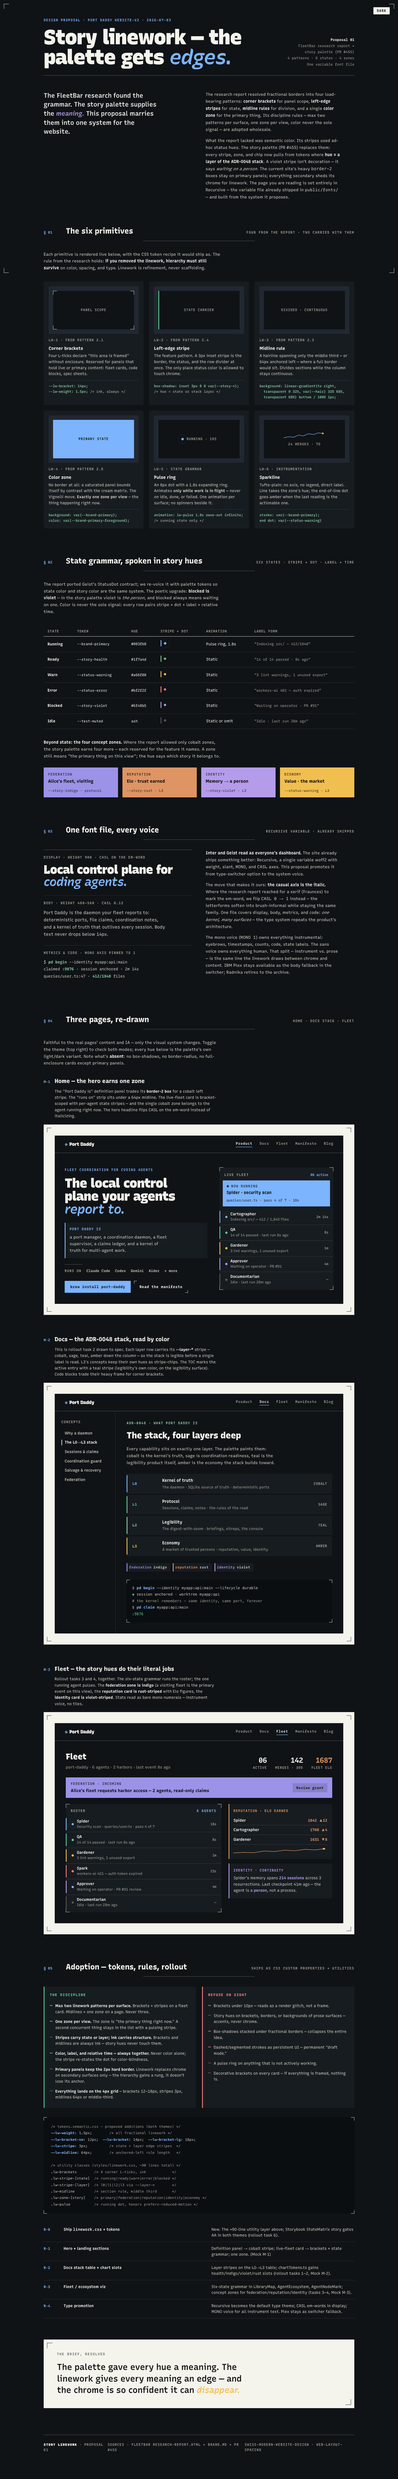
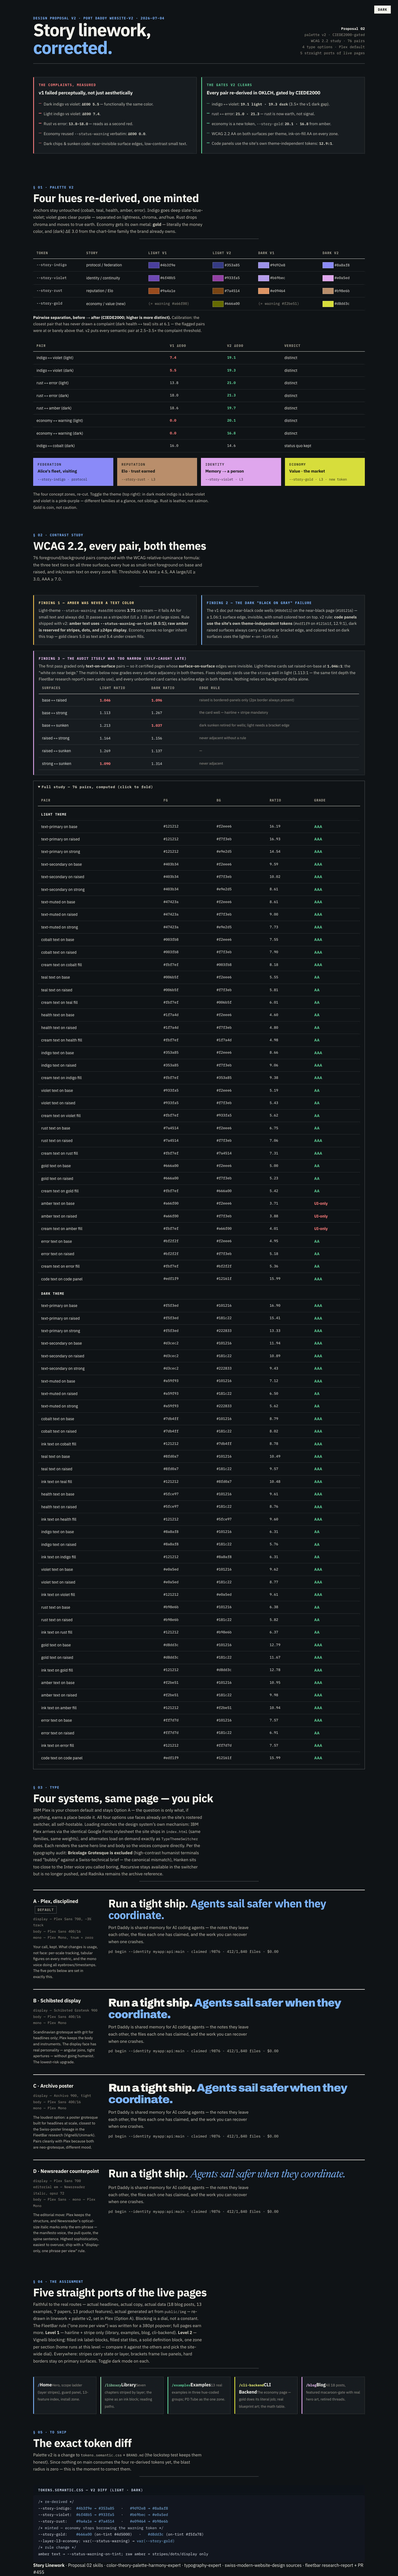
docs(design): linework v2.1 — surface adjacency fix, art pass, type scale, Level-2 blocking
- Surface-adjacency audit added to the WCAG study (self-caught: v2 graded
  only text pairs). Light cards were raised-on-base 1.046:1 — moved to the
  strong well + mandatory hairline edges both themes.
- Art pass: real generated art anchored into every port (FleetBar app
  shells, tube multiplex gif, trilogy-arc, paper-craft example artwork,
  blog post thumbnails).
- Typography pass: real display scale (hero to 78px, h2 fluid), per-scale
  tracking; fonts load via the same mechanism as website-v2/index.html.
- Level-2 Vignelli color blocking on home (filled definition block, ink
  label-blocks, filled stat tiles) as the blocking dial demo.

Changed region(s): [[0.0925, 0.0, 0.925, 1.0], [0.8633, 0.2185, 0.8942, 0.2497]]

diff --git a/docs/design/story-linework/ports/blog.html b/docs/design/story-linework/ports/blog.html
@@ -9,7 +9,7 @@
 <link rel="stylesheet" href="port.css">
 <style>
   .blog-head { display: grid; grid-template-columns: 1.2fr 1fr; gap: 48px; padding: 56px 0 44px; align-items: center; }
-  .blog-head h1 { font-size: clamp(36px, 4.6vw, 56px); font-weight: 700; letter-spacing: var(--tracking-display); line-height: 1.02; }
+  .blog-head h1 { font-size: clamp(40px, 5.4vw, 72px); font-weight: 700; letter-spacing: var(--tracking-display); line-height: 1.02; }
   .blog-head .sub { font-size: 16.5px; line-height: 1.65; color: var(--text-secondary); max-width: 50ch; margin-top: 14px; }
   .lanes { display: grid; grid-template-columns: repeat(4, 1fr); gap: 16px; }
   .featured { display: grid; grid-template-columns: 1fr 1.1fr; gap: 0; border: 2px solid var(--border-strong); background: var(--surface-raised); margin-top: 44px; }
@@ -19,7 +19,7 @@
   .featured h2 { font-size: 27px; font-weight: 700; letter-spacing: var(--tracking-h2); line-height: 1.15; margin-top: 14px; }
   .featured .f-excerpt { font-size: 14.5px; line-height: 1.65; color: var(--text-secondary); margin-top: 12px; flex: 1; }
   .featured .f-foot { display: flex; justify-content: space-between; align-items: center; margin-top: 18px; padding-top: 14px; border-top: 1px solid var(--hair); }
-  .log-row { display: grid; grid-template-columns: 56px 110px 1fr; gap: 20px; padding: 18px 0; border-bottom: 1px solid var(--hair); align-items: baseline; }
+  .log-row { display: grid; grid-template-columns: 56px 110px 1fr auto; gap: 20px; padding: 18px 0; border-bottom: 1px solid var(--hair); align-items: baseline; }
   .log-row .idx { font-family: "IBM Plex Mono", monospace; font-size: 15px; font-weight: 700; color: var(--cobalt); }
   .log-row .date { font-family: "IBM Plex Mono", monospace; font-size: 12.5px; color: var(--text-muted); }
   .log-row h3 { font-size: 17.5px; font-weight: 700; letter-spacing: var(--tracking-h3); line-height: 1.3; }
@@ -93,12 +93,12 @@
       <div class="eyebrow">Earlier entries</div>
       <h2>The rest of the log</h2>
     </div>
-    <div class="log-row"><span class="idx">02</span><span class="date">2026-06-01</span><div><h3>One Send, Every Listener: pd tube Goes Multi-Subscriber</h3><p class="ex">I built a two-pane demo of pd tube — a human and a live agent talking over one channel. It worked. Then I added a third listener and the bug fell out of the sky: whichever terminal polled first swallowed the message and the rest saw an empty channel. Here's the shared-cursor race, the per-listener-cursor fix, and the regression test that documents the old bug on purpose. Shipped in v3.16.2.</p><div class="tags"><span class="chip">pd tube</span><span class="chip">Pub/Sub</span><span class="chip">Dogfooding</span></div></div></div>
-    <div class="log-row"><span class="idx">03</span><span class="date">2026-05-22</span><div><h3>Attention Is The First Command</h3><p class="ex">Port Daddy has had a perfectly good mailbox for about a year. Inboxes, channels, tuples, a coordination-inconsistency stream where the fleet airs its complaints. Nobody was checking the mail. Each agent turn is a fresh process; nothing inside the turn polls. This is the verb that fixes it, and the deliberate reason this is not an MCP tool.</p><div class="tags"><span class="chip">Coordination</span><span class="chip">SessionStart</span><span class="chip">Convention</span></div></div></div>
-    <div class="log-row"><span class="idx">04</span><span class="date">2026-05-20</span><div><h3>The PR That Reviews Itself</h3><p class="ex">You push at eleven at night. The CI gear-wheel is the only critic in the room. What if every PR you opened arrived with the adversarial review you would have asked for — six paid critics on the same git push you were already doing? The GitHub fleet, the bug it caught (14 green tests against a count that was structurally always 0), and what stays in your hands.</p><div class="tags"><span class="chip">GitHub Fleet</span><span class="chip">Code Review</span><span class="chip">Adversarial</span></div></div></div>
-    <div class="log-row"><span class="idx">05</span><span class="date">2026-05-20</span><div><h3>Your AI Subscription Already Powers A Fleet</h3><p class="ex">I'm in Claude Code or Codex about ten hours a day. The subscription isn't idle — but a person can only hold one cursor at a time, and the other streams (worktrees, midnight agents, post-commit hooks) are free to share the same hourly budget. The killer experience isn't 'saves money.' It's waking up to a feature that wasn't there last night.</p><div class="tags"><span class="chip">Fleet</span><span class="chip">CLI Backends</span><span class="chip">Economics</span></div></div></div>
-    <div class="log-row"><span class="idx">06</span><span class="date">2026-05-17</span><div><h3>The CLI Is For The Robots</h3><p class="ex">I edited an .env.local file today. Wrong one. Three directories away from the one the daemon actually reads. The fleet sat there 401'ing for an hour while I edited the wrong file and felt productive. That is a product failure, not a user error. The operator does not run pd commands; the operator gets buttons.</p><div class="tags"><span class="chip">Operator UX</span><span class="chip">FleetBar</span><span class="chip">Doctrine</span></div></div></div>
-    <div class="log-row"><span class="idx">07</span><span class="date">2026-05-06</span><div><h3>Why Coordination Guard Exists</h3><p class="ex">Coordination Guard was not born from a clean theory of Git as policy. It was born because four agents — politely, professionally, with great commit messages — kept staging, resetting, and cherry-picking through each other's claims, and the Saturday I lost untangling that mess was the Saturday I stopped trusting honor systems.</p><div class="tags"><span class="chip">Coordination Guard</span><span class="chip">Git Safety</span></div></div></div>
+    <div class="log-row"><span class="idx">02</span><span class="date">2026-06-01</span><div><h3>One Send, Every Listener: pd tube Goes Multi-Subscriber</h3><p class="ex">I built a two-pane demo of pd tube — a human and a live agent talking over one channel. It worked. Then I added a third listener and the bug fell out of the sky: whichever terminal polled first swallowed the message and the rest saw an empty channel. Here's the shared-cursor race, the per-listener-cursor fix, and the regression test that documents the old bug on purpose. Shipped in v3.16.2.</p><div class="tags"><span class="chip">pd tube</span><span class="chip">Pub/Sub</span><span class="chip">Dogfooding</span></div></div><figure style="width:150px; border:1px solid var(--hair-strong); align-self:center;"><img src="../../../../website-v2/public/img/generated/tube-multiplex/hero.webp" alt="" style="display:block; width:100%; height:84px; object-fit:cover;"></figure></div>
+    <div class="log-row"><span class="idx">03</span><span class="date">2026-05-22</span><div><h3>Attention Is The First Command</h3><p class="ex">Port Daddy has had a perfectly good mailbox for about a year. Inboxes, channels, tuples, a coordination-inconsistency stream where the fleet airs its complaints. Nobody was checking the mail. Each agent turn is a fresh process; nothing inside the turn polls. This is the verb that fixes it, and the deliberate reason this is not an MCP tool.</p><div class="tags"><span class="chip">Coordination</span><span class="chip">SessionStart</span><span class="chip">Convention</span></div></div><figure style="width:150px; border:1px solid var(--hair-strong); align-self:center;"><img src="../../../../website-v2/public/img/generated/attention-first-command/hero.webp" alt="" style="display:block; width:100%; height:84px; object-fit:cover;"></figure></div>
+    <div class="log-row"><span class="idx">04</span><span class="date">2026-05-20</span><div><h3>The PR That Reviews Itself</h3><p class="ex">You push at eleven at night. The CI gear-wheel is the only critic in the room. What if every PR you opened arrived with the adversarial review you would have asked for — six paid critics on the same git push you were already doing? The GitHub fleet, the bug it caught (14 green tests against a count that was structurally always 0), and what stays in your hands.</p><div class="tags"><span class="chip">GitHub Fleet</span><span class="chip">Code Review</span><span class="chip">Adversarial</span></div></div><figure style="width:150px; border:1px solid var(--hair-strong); align-self:center;"><img src="../../../../website-v2/public/img/generated/pr-reviews-itself/hero.webp" alt="" style="display:block; width:100%; height:84px; object-fit:cover;"></figure></div>
+    <div class="log-row"><span class="idx">05</span><span class="date">2026-05-20</span><div><h3>Your AI Subscription Already Powers A Fleet</h3><p class="ex">I'm in Claude Code or Codex about ten hours a day. The subscription isn't idle — but a person can only hold one cursor at a time, and the other streams (worktrees, midnight agents, post-commit hooks) are free to share the same hourly budget. The killer experience isn't 'saves money.' It's waking up to a feature that wasn't there last night.</p><div class="tags"><span class="chip">Fleet</span><span class="chip">CLI Backends</span><span class="chip">Economics</span></div></div><figure style="width:150px; border:1px solid var(--hair-strong); align-self:center;"><img src="../../../../website-v2/public/img/generated/blog-ai-subscription-fleet-hero.jpg" alt="" style="display:block; width:100%; height:84px; object-fit:cover;"></figure></div>
+    <div class="log-row"><span class="idx">06</span><span class="date">2026-05-17</span><div><h3>The CLI Is For The Robots</h3><p class="ex">I edited an .env.local file today. Wrong one. Three directories away from the one the daemon actually reads. The fleet sat there 401'ing for an hour while I edited the wrong file and felt productive. That is a product failure, not a user error. The operator does not run pd commands; the operator gets buttons.</p><div class="tags"><span class="chip">Operator UX</span><span class="chip">FleetBar</span><span class="chip">Doctrine</span></div></div><figure style="width:150px; border:1px solid var(--hair-strong); align-self:center;"><img src="../../../../website-v2/public/img/generated/fleetbar-install.webp" alt="" style="display:block; width:100%; height:84px; object-fit:cover;"></figure></div>
+    <div class="log-row"><span class="idx">07</span><span class="date">2026-05-06</span><div><h3>Why Coordination Guard Exists</h3><p class="ex">Coordination Guard was not born from a clean theory of Git as policy. It was born because four agents — politely, professionally, with great commit messages — kept staging, resetting, and cherry-picking through each other's claims, and the Saturday I lost untangling that mess was the Saturday I stopped trusting honor systems.</p><div class="tags"><span class="chip">Coordination Guard</span><span class="chip">Git Safety</span></div></div><figure style="width:150px; border:1px solid var(--hair-strong); align-self:center;"><img src="../../../../website-v2/public/img/generated/coordination-guard.webp" alt="" style="display:block; width:100%; height:84px; object-fit:cover;"></figure></div>
     <div class="log-row"><span class="idx">08</span><span class="date">2026-04-29</span><div><h3>Red and White Stay In Their Lanes</h3><p class="ex">Two AI fleets argue about my whitepaper every month, and they are not allowed to talk to each other. One tries to break the paper; one tries to defend it. Here is the crypto that keeps them in their lanes, the three gates each round has to clear, and what shows up on the operator screen when somebody cheats.</p><div class="tags"><span class="chip">Whitepaper</span><span class="chip">ProVerif</span><span class="chip">Security</span></div></div></div>
     <div class="log-row"><span class="idx">09</span><span class="date">2026-04-29</span><div><h3>Bond Pricing Is a Market, Not a Constant</h3><p class="ex">Daily budgets are training wheels. They keep an agent from setting itself on fire, but they do not price what the fire would cost. The v2 paper points at the destination: cleanup as a lower bound, scope as a multiplier, reputation as a discount, and Thomas Youle's insurer-bidding market on top.</p><div class="tags"><span class="chip">Pricing</span><span class="chip">Mechanism Design</span></div></div></div>
     <div class="log-row"><span class="idx">10</span><span class="date">2026-04-29</span><div><h3>Evidence That Survives Multiple Machines</h3><p class="ex">A note only your laptop can verify is half a record — and "trust me, it was on the other machine" is the worst sentence in incident response. The v2 Merkle forest, the KMS witness, and the mutable-signal ledger let a teammate or a CI runner verify the same evidence in 700 bytes, without your laptop in the room.</p><div class="tags"><span class="chip">Merkle Forest</span><span class="chip">Evidence</span></div></div></div>

diff --git a/docs/design/story-linework/ports/examples.html b/docs/design/story-linework/ports/examples.html
@@ -9,7 +9,7 @@
 <link rel="stylesheet" href="port.css">
 <style>
   .ex-hero { display: grid; grid-template-columns: 1.35fr 1fr; gap: 48px; padding: 64px 0 40px; align-items: start; }
-  .ex-hero h1 { font-size: clamp(32px, 4vw, 48px); font-weight: 700; line-height: 1.05; letter-spacing: var(--tracking-display); max-width: 20ch; }
+  .ex-hero h1 { font-size: clamp(36px, 4.6vw, 60px); font-weight: 700; line-height: 1.05; letter-spacing: var(--tracking-display); max-width: 20ch; }
   .ex-hero .lede { font-size: 16px; line-height: 1.7; color: var(--text-secondary); max-width: 58ch; margin-top: 16px; }
   .ex-hero p + p { margin-top: 12px; }
   .featured-zone { background: var(--cobalt); color: var(--inverse); padding: 30px 34px; margin-top: 24px; display: grid; grid-template-columns: 1.4fr 1fr; gap: 30px; }
@@ -63,7 +63,8 @@
   </section>
 
   <!-- FEATURED — the page's one zone -->
-  <section id="featured" class="featured-zone">
+  <section id="featured" class="featured-zone" style="grid-template-columns: 1fr 1.2fr 0.9fr;">
+    <figure style="margin:-30px 0 -30px -34px;"><img src="../../../../website-v2/public/img/generated/example-pd-tube-button-to-agent.webp" alt="Paper-craft artwork: a product button wired to an agent in the developer workspace." style="display:block; width:100%; height:100%; object-fit:cover;"></figure>
     <div>
       <div class="fz-eyebrow">PD Tube · featured</div>
       <h2>Turn a plain HTML button into a phone line to the coding agent already running in your repo.</h2>
@@ -85,7 +86,7 @@
       <p class="g-blurb">The reason Port Daddy exists. Two agents grab the same file, the second write wins, and an hour of work disappears into a clean-looking merge. These stop that: claims, locks, a shared board, and a trail you can recover from.</p>
     </div>
     <div class="ex-grid">
-      <div class="ex-card" style="--g: var(--health)"><div class="e-eyebrow">Coordination</div><div class="e-title">Stop two agents from clobbering the same file</div><p class="e-sum">The canonical Port Daddy story: two agents reach for one file, and only one writes at a time — claims, locks, and notes instead of a silent overwrite.</p><div class="e-meta"><span>Intermediate · 15 min</span><span>locks · claims · notes</span></div></div>
+      <div class="ex-card" style="--g: var(--health)"><figure style="margin:-18px -20px 12px -20px; border-bottom:1px solid var(--hair);"><img src="../../../../website-v2/public/img/generated/example-coordination-guard.webp" alt="" style="display:block; width:100%; height:120px; object-fit:cover;"></figure><div class="e-eyebrow">Coordination</div><div class="e-title">Stop two agents from clobbering the same file</div><p class="e-sum">The canonical Port Daddy story: two agents reach for one file, and only one writes at a time — claims, locks, and notes instead of a silent overwrite.</p><div class="e-meta"><span>Intermediate · 15 min</span><span>locks · claims · notes</span></div></div>
       <div class="ex-card" style="--g: var(--health)"><div class="e-eyebrow">Multi-agent</div><div class="e-title">Run a four-agent swarm that hands off cleanly</div><p class="e-sum">Four agents — scout, builder, verifier, integrator — run in one process and pass work down a chain without ever clobbering each other.</p><div class="e-meta"><span>Advanced · 20 min</span><span>swarm · tuples · locks</span></div></div>
       <div class="ex-card" style="--g: var(--health)"><div class="e-eyebrow">Locks</div><div class="e-title">Elect one leader from a local agent swarm</div><p class="e-sum">Run a swarm of identical workers where exactly one becomes leader and the rest keep working as followers.</p><div class="e-meta"><span>Intermediate · 14 min</span><span>locks · leader election</span></div></div>
       <div class="ex-card" style="--g: var(--health)"><div class="e-eyebrow">Incident response</div><div class="e-title">Stand up a three-agent incident war room</div><p class="e-sum">Three agents investigate a production bug over one shared channel, record findings as notes, and one of them proposes the root-cause fix.</p><div class="e-meta"><span>Intermediate · 15 min</span><span>incident · pub/sub · notes</span></div></div>
@@ -100,9 +101,9 @@
       <p class="g-blurb">The PD Tube pattern from the lede, pointed at real triggers — a failing test, an editor selection, an inbound webhook. The event enters the daemon; the agent in your terminal answers.</p>
     </div>
     <div class="ex-grid">
-      <div class="ex-card" style="--g: var(--cobalt)"><div class="e-eyebrow">Test runner</div><div class="e-title">Turn a failing test into an agent request</div><p class="e-sum">Wrap a failing test command, publish the failure to the local agent, and print the diagnosis back in the same terminal.</p><div class="e-meta"><span>Intermediate · 20 min</span><span>tube · tests · reporter</span></div></div>
-      <div class="ex-card" style="--g: var(--cobalt)"><div class="e-eyebrow">Editor extension</div><div class="e-title">Send an editor selection to your local agent</div><p class="e-sum">Select code in a page, publish the file and range to the agent, and render the explanation right next to the selection.</p><div class="e-meta"><span>Beginner · 16 min</span><span>tube · editor · dev tools</span></div></div>
-      <div class="ex-card" style="--g: var(--cobalt)"><div class="e-eyebrow">Bot adapter</div><div class="e-title">Route webhooks to an agent on your machine</div><p class="e-sum">Accept Slack, Discord, Linear, or generic webhook JSON and route it to the local agent through PD Tube.</p><div class="e-meta"><span>Advanced · 24 min</span><span>tube · webhooks · http</span></div></div>
+      <div class="ex-card" style="--g: var(--cobalt)"><figure style="margin:-18px -20px 12px -20px; border-bottom:1px solid var(--hair);"><img src="../../../../website-v2/public/img/generated/example-test-failure-to-agent.webp" alt="" style="display:block; width:100%; height:120px; object-fit:cover;"></figure><div class="e-eyebrow">Test runner</div><div class="e-title">Turn a failing test into an agent request</div><p class="e-sum">Wrap a failing test command, publish the failure to the local agent, and print the diagnosis back in the same terminal.</p><div class="e-meta"><span>Intermediate · 20 min</span><span>tube · tests · reporter</span></div></div>
+      <div class="ex-card" style="--g: var(--cobalt)"><figure style="margin:-18px -20px 12px -20px; border-bottom:1px solid var(--hair);"><img src="../../../../website-v2/public/img/generated/example-editor-lightbulb-to-agent.webp" alt="" style="display:block; width:100%; height:120px; object-fit:cover;"></figure><div class="e-eyebrow">Editor extension</div><div class="e-title">Send an editor selection to your local agent</div><p class="e-sum">Select code in a page, publish the file and range to the agent, and render the explanation right next to the selection.</p><div class="e-meta"><span>Beginner · 16 min</span><span>tube · editor · dev tools</span></div></div>
+      <div class="ex-card" style="--g: var(--cobalt)"><figure style="margin:-18px -20px 12px -20px; border-bottom:1px solid var(--hair);"><img src="../../../../website-v2/public/img/generated/example-webhook-to-local-agent.webp" alt="" style="display:block; width:100%; height:120px; object-fit:cover;"></figure><div class="e-eyebrow">Bot adapter</div><div class="e-title">Route webhooks to an agent on your machine</div><p class="e-sum">Accept Slack, Discord, Linear, or generic webhook JSON and route it to the local agent through PD Tube.</p><div class="e-meta"><span>Advanced · 24 min</span><span>tube · webhooks · http</span></div></div>
     </div>
   </section>
 
@@ -113,8 +114,8 @@
       <p class="g-blurb">The plumbing underneath: deterministic ports, name-based discovery, throwaway CI databases, a managed tunnel, and peer links brokered through durable inboxes.</p>
     </div>
     <div class="ex-grid">
-      <div class="ex-card" style="--g: var(--teal)"><div class="e-eyebrow">Ports + discovery</div><div class="e-title">Let services find each other by name</div><p class="e-sum">An API, a frontend, and a worker each claim a stable port and discover one another by name — no hardcoded ports, no race for 3000.</p><div class="e-meta"><span>Beginner · 12 min</span><span>ports · dns · services</span></div></div>
-      <div class="ex-card" style="--g: var(--teal)"><div class="e-eyebrow">CI services</div><div class="e-title">Claim a throwaway database port for CI</div><p class="e-sum">Claim a semantic port for a throwaway Postgres test database, then print the DATABASE_URL your tests should use.</p><div class="e-meta"><span>Beginner · 12 min</span><span>ports · ci · docker</span></div></div>
+      <div class="ex-card" style="--g: var(--teal)"><figure style="margin:-18px -20px 12px -20px; border-bottom:1px solid var(--hair);"><img src="../../../../website-v2/public/img/generated/example-services-dns.webp" alt="" style="display:block; width:100%; height:120px; object-fit:cover;"></figure><div class="e-eyebrow">Ports + discovery</div><div class="e-title">Let services find each other by name</div><p class="e-sum">An API, a frontend, and a worker each claim a stable port and discover one another by name — no hardcoded ports, no race for 3000.</p><div class="e-meta"><span>Beginner · 12 min</span><span>ports · dns · services</span></div></div>
+      <div class="ex-card" style="--g: var(--teal)"><figure style="margin:-18px -20px 12px -20px; border-bottom:1px solid var(--hair);"><img src="../../../../website-v2/public/img/generated/example-ephemeral-ci-db.webp" alt="" style="display:block; width:100%; height:120px; object-fit:cover;"></figure><div class="e-eyebrow">CI services</div><div class="e-title">Claim a throwaway database port for CI</div><p class="e-sum">Claim a semantic port for a throwaway Postgres test database, then print the DATABASE_URL your tests should use.</p><div class="e-meta"><span>Beginner · 12 min</span><span>ports · ci · docker</span></div></div>
       <div class="ex-card" style="--g: var(--teal)"><div class="e-eyebrow">Tunnels</div><div class="e-title">Share a local preview over a managed tunnel</div><p class="e-sum">Claim a local service, open a public tunnel only when you ask for it, and publish the URL for other agents — then tear it down cleanly.</p><div class="e-meta"><span>Intermediate · 12 min</span><span>tunnel · claim · preview</span></div></div>
       <div class="ex-card" style="--g: var(--teal)"><div class="e-eyebrow">P2P signaling</div><div class="e-title">Carry WebRTC signaling over agent inboxes</div><p class="e-sum">Use durable agent inboxes to exchange an SDP offer and answer before two peers open their direct channel.</p><div class="e-meta"><span>Advanced · 22 min</span><span>inbox · webrtc · p2p</span></div></div>
     </div>

diff --git a/docs/design/story-linework/ports/home.html b/docs/design/story-linework/ports/home.html
@@ -10,7 +10,7 @@
 <style>
   /* page-specific */
   .hero { display: grid; grid-template-columns: 1.2fr 1fr; gap: 48px; padding: 64px 0 56px; align-items: start; }
-  .hero h1 { font-size: clamp(38px, 4.6vw, 58px); font-weight: 700; line-height: 1.02; letter-spacing: var(--tracking-display); max-width: 16ch; }
+  .hero h1 { font-size: var(--fs-hero); font-weight: 700; line-height: 1.02; letter-spacing: var(--tracking-display); max-width: 16ch; }
   .hero h1 .accent { color: var(--cobalt); }
   .hero .eyebrow { margin-bottom: 14px; }
   .is-panel { margin-top: 26px; max-width: 46rem; }
@@ -232,7 +232,9 @@ listening on ui:clicks · cursor @0
             <li><span class="mono">notebook:exception</span> — Jupyter cell hook</li>
           </ul>
         </div>
-        <div class="stripe-card" style="--stripe: var(--indigo)"><div class="sc-label" style="color: var(--indigo-on-tint)">pd tube · fan-out</div><div class="sc-title" style="font-size:15px;">One channel. Many listeners. Every message.</div><p>Point several agents at one channel — alice, bob, carol. Every listener gets every message with its own bookmark, instead of one listener grabbing each message. Send once; three listeners all wake up.</p></div>
+        <div class="stripe-card" style="--stripe: var(--indigo)"><div class="sc-label" style="color: var(--indigo-on-tint)">pd tube · fan-out</div><div class="sc-title" style="font-size:15px;">One channel. Many listeners. Every message.</div><p>Point several agents at one channel — alice, bob, carol. Every listener gets every message with its own bookmark. Send once; three listeners all wake up.</p>
+          <figure style="margin-top:12px; border: 2px solid var(--border-strong);"><img src="../../../../website-v2/public/demos/pd-tube/pd-tube-multiplex.gif" alt="Animated terminal recording: one pd tube send fanning out to three listeners." style="display:block; width:100%; height:auto;"></figure>
+        </div>
       </div>
     </div>
   </section>
@@ -283,7 +285,13 @@ listening on ui:clicks · cursor @0
         <h2>Install it, then run your fleet from FleetBar.</h2>
         <p>Port Daddy is open source and free. You run it from the Mac app: pick a project, start a Shipwright to plan a fleet of agents, launch one-off spawned work, set spending limits, and hand work between agents. Agents stay in the terminal. You should not have to read command output to know what is going on.</p>
       </div>
-      <div class="zb-code">brew install curiositech/tap/port-daddy<br>pd setup<br><span style="opacity:0.7"># run pd doctor when something stops lining up</span></div>
+      <div>
+        <div class="zb-code">brew install curiositech/tap/port-daddy<br>pd setup</div>
+        <figure class="themed-img" style="margin-top:14px; border: 2px solid rgba(0,0,0,0.35);">
+          <img class="light-only" src="../../../../website-v2/public/img/app-screens/fleetbar-native-shell-light.webp" alt="FleetBar native shell — daemon health, agents, and project readiness in the macOS menu bar." style="display:block; width:100%; height:auto;">
+          <img class="dark-only" src="../../../../website-v2/public/img/app-screens/fleetbar-native-shell-dark.webp" alt="FleetBar native shell, dark." style="display:block; width:100%; height:auto;">
+        </figure>
+      </div>
     </div>
   </section>
 

diff --git a/docs/design/story-linework/ports/library.html b/docs/design/story-linework/ports/library.html
@@ -9,7 +9,7 @@
 <link rel="stylesheet" href="port.css">
 <style>
   .lib-hero { display: grid; grid-template-columns: 1.15fr 1fr; gap: 48px; padding: 64px 0 48px; align-items: start; }
-  .lib-hero h1 { font-size: clamp(34px, 4.2vw, 52px); font-weight: 700; line-height: 1.04; letter-spacing: var(--tracking-display); max-width: 18ch; }
+  .lib-hero h1 { font-size: clamp(38px, 5vw, 66px); font-weight: 700; line-height: 1.04; letter-spacing: var(--tracking-display); max-width: 18ch; }
   .lib-hero .eyebrow { margin-bottom: 14px; color: var(--teal); }
   .lib-hero .lede { font-size: 16px; line-height: 1.7; color: var(--text-secondary); max-width: 58ch; margin-top: 18px; }
   .lib-hero .lede em { font-style: italic; }
@@ -22,7 +22,7 @@
   .spine > i:nth-of-type(1) { top: 12px; left: 12px; border-top-width: var(--lw-weight); border-left-width: var(--lw-weight); }
   .spine > i:nth-of-type(2) { bottom: 12px; right: 12px; border-bottom-width: var(--lw-weight); border-right-width: var(--lw-weight); }
   .spine .sp-eyebrow { font-family: "IBM Plex Mono", monospace; font-size: 12px; font-weight: 700; text-transform: uppercase; letter-spacing: 0.16em; opacity: 0.6; margin-bottom: 14px; }
-  .spine blockquote { font-size: clamp(20px, 2.4vw, 29px); line-height: 1.4; letter-spacing: -0.012em; font-weight: 500; max-width: 42ch; }
+  .spine blockquote { font-size: clamp(24px, 3vw, 38px); line-height: 1.4; letter-spacing: -0.012em; font-weight: 500; max-width: 42ch; }
   .chap { position: relative; display: grid; grid-template-columns: 90px 1fr 200px; gap: 22px; padding: 22px 22px 22px 26px; background: var(--surface-card); border: 1px solid var(--hair); border-left: none; margin-bottom: 6px; }
   .chap::before { content: ""; position: absolute; left: 0; top: 6px; bottom: 6px; width: var(--lw-stripe); background: var(--ch); }
   .chap .c-num { font-family: "IBM Plex Mono", monospace; font-size: 24px; font-weight: 700; color: var(--ch); line-height: 1; }
@@ -98,6 +98,10 @@
       <p class="sect-desc">Each chapter is striped with the layer it lives on — cobalt for the kernel, sage for the protocol, teal for legibility, violet for identity, gold for the economy, indigo for the proofs that federate them. The stack is legible before a single label is read.</p>
     </div>
 
+    <figure class="art" style="margin-bottom:26px;">
+      <img src="../../../../website-v2/public/img/generated/manifesto/trilogy-arc.webp" alt="One hut, one house with its own crane, then a harbor with many berths — the three stages the papers climb.">
+      <figcaption>One process → one machine → many machines. The same arc the three papers climb, drawn once.</figcaption>
+    </figure>
     <div class="group-label lw-midline" style="padding-top:12px;"><h3>The four that explain</h3><p>Chapters I–IV · self-contained and pedagogic, climbing one ladder. Stop after the first and you still have a useful mental model.</p></div>
 
     <article class="chap" style="--ch: var(--teal)">

diff --git a/docs/design/story-linework/ports/port.css b/docs/design/story-linework/ports/port.css
@@ -86,9 +86,11 @@ body {
 h1, h2, h3 { text-wrap: balance; }
 p { text-wrap: pretty; }
 
-/* per-scale tracking (typography-expert FM-7) */
+/* per-scale tracking (typography-expert FM-7) + display scale */
 :root {
-  --tracking-display: -0.03em;
+  --fs-hero: clamp(44px, 5.6vw, 78px);
+  --fs-h2: clamp(28px, 3vw, 40px);
+  --tracking-display: -0.035em;
   --tracking-h2: -0.02em;
   --tracking-h3: -0.012em;
   --tracking-body: 0;
@@ -180,7 +182,7 @@ p { text-wrap: pretty; }
   background-image: linear-gradient(to right, transparent 0 32%, var(--hair-strong) 32% 68%, transparent 68% 100%);
 }
 .sect-head .eyebrow { margin-bottom: 8px; }
-.sect-head h2 { font-size: 30px; font-weight: 700; letter-spacing: var(--tracking-h2); }
+.sect-head h2 { font-size: var(--fs-h2); font-weight: 700; letter-spacing: var(--tracking-h2); line-height: 1.06; }
 .sect-head .sect-desc { font-size: 15.5px; line-height: 1.65; color: var(--text-secondary); max-width: 66ch; margin-top: 10px; }
 
 /* primary panel — keeps the hard 2px border (discipline rule) */
@@ -258,3 +260,8 @@ table.data td:first-child { font-weight: 600; }
   .site-header { flex-wrap: wrap; padding: 12px 20px; }
   .page { padding: 0 20px; }
 }
+
+/* theme-aware artwork swap */
+.themed-img .dark-only { display: none; }
+[data-theme="dark"] .themed-img .light-only { display: none; }
+[data-theme="dark"] .themed-img .dark-only { display: block; }

diff --git a/docs/design/story-linework/ports/cli-backend.html b/docs/design/story-linework/ports/cli-backend.html
@@ -9,7 +9,7 @@
 <link rel="stylesheet" href="port.css">
 <style>
   .cb-hero { display: grid; grid-template-columns: 1.25fr 1fr; gap: 48px; padding: 64px 0 44px; align-items: start; }
-  .cb-hero h1 { font-size: clamp(34px, 4.4vw, 52px); font-weight: 700; line-height: 1.03; letter-spacing: var(--tracking-display); max-width: 17ch; }
+  .cb-hero h1 { font-size: clamp(38px, 5vw, 64px); font-weight: 700; line-height: 1.03; letter-spacing: var(--tracking-display); max-width: 17ch; }
   .cb-hero .eyebrow { margin-bottom: 14px; color: var(--gold-on-tint); }
   .cb-hero .summary { font-size: 17px; line-height: 1.65; color: var(--text-primary); font-weight: 500; max-width: 56ch; margin-top: 18px; }
   .cb-hero .body { font-size: 15px; line-height: 1.7; color: var(--text-secondary); max-width: 58ch; margin-top: 14px; }
